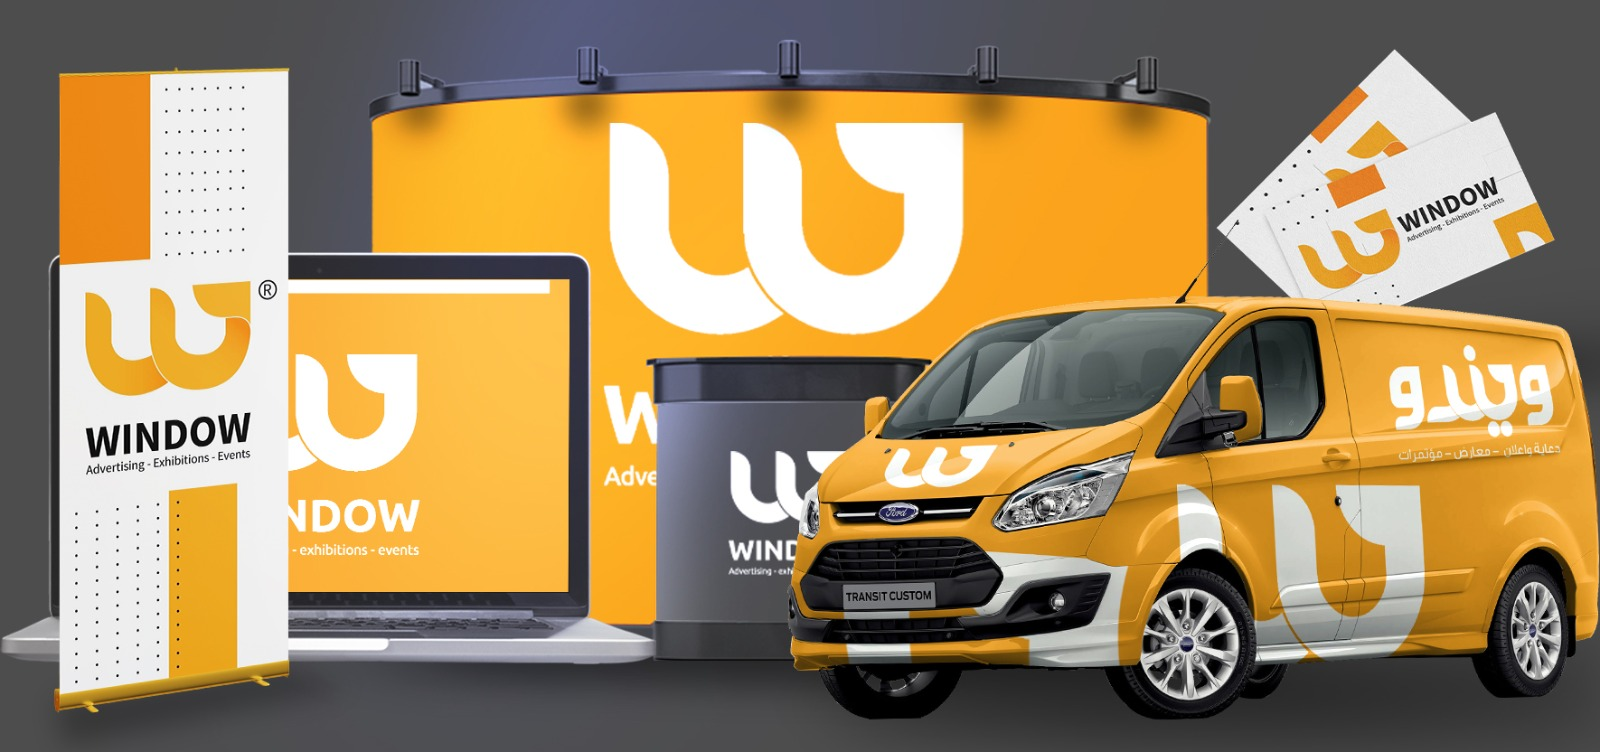
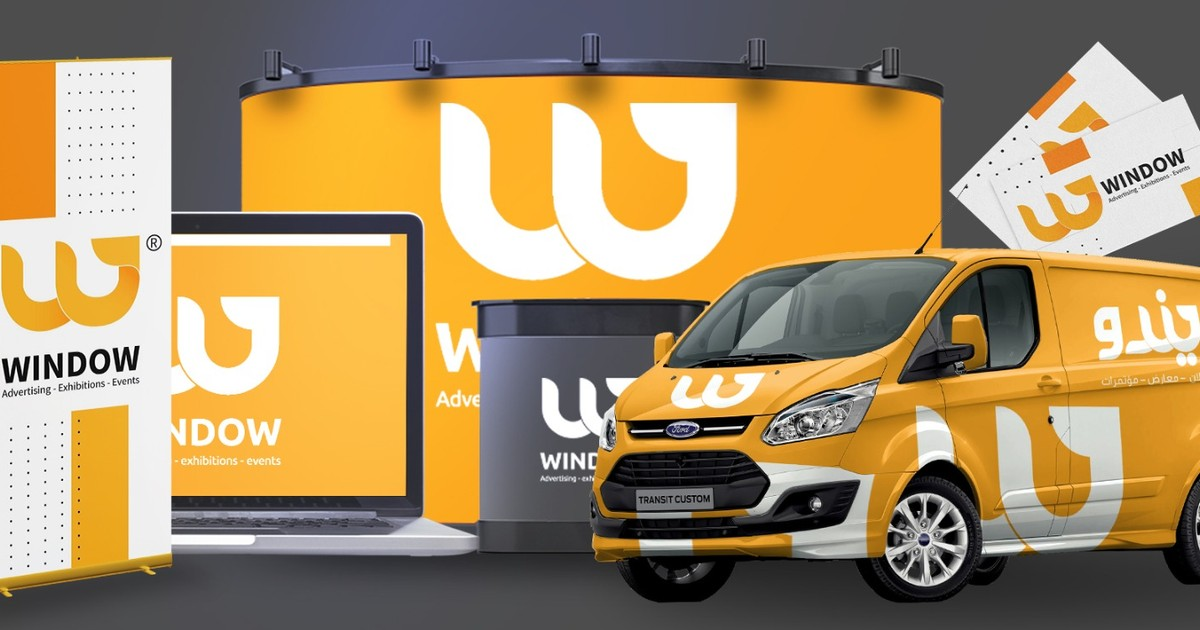
Recrop og-image to true 1200x630 and bump cache version
Live og:image was 1600x752 while meta tags declared 1200x630, causing
social crawlers to reject/misrender the thumbnail. Bump v2->v3 so
scrapers refetch instead of serving the cached mismatched image.

diff --git a/resources/views/front/partials/_head.blade.php b/resources/views/front/partials/_head.blade.php
@@ -55,8 +55,8 @@
 
 <meta name="keywords" content="@yield('keywords', $website_settings->keywords)">
 
-<meta name="twitter:image" content="@yield('display_image', asset('front/images/og-image.jpeg') . '?v=2')">
-<meta property="og:image" content="@yield('display_image', asset('front/images/og-image.jpeg') . '?v=2')">
+<meta name="twitter:image" content="@yield('display_image', asset('front/images/og-image.jpeg') . '?v=3')">
+<meta property="og:image" content="@yield('display_image', asset('front/images/og-image.jpeg') . '?v=3')">
 <meta name="twitter:card" content="summary_large_image">
 <meta property="og:image:width" content="1200">
 <meta property="og:image:height" content="630">
